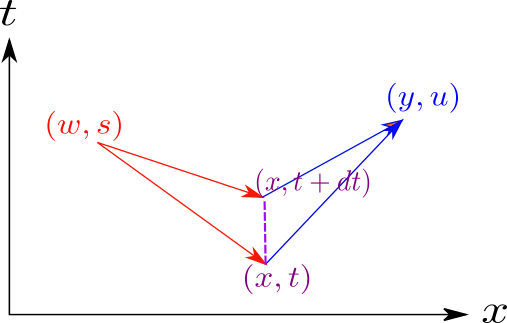
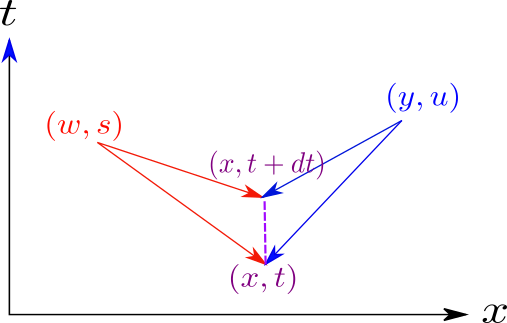
added chapters on ising-dbnet and renormalization group

diff --git a/stochastic-diff-eqns/stochastic-diff-eqns.tex b/stochastic-diff-eqns/stochastic-diff-eqns.tex
@@ -368,7 +368,8 @@ E[\;|\rvy(t_i)|\;] < \infty\quad \forall i\quad
 a finite closed time interval, 
 it's called a \qt{local} martingale)
 
-\item Causal
+\item Causal and only remembers
+last past observation
 \beq
 E\left[\rvy(t)|x(t_{i\ldots j})\right]= y(t_j)
 \quad (\text{resp., }E\left[\rvy(t)|x([0,s])\right]= y(s))
@@ -381,9 +382,9 @@ E[\rvB(t)| B(t_{i\ldots j}] = B(t_j)
 \eeq
 
 
-It\^{o} integrals $\int L\XT{x}{t}d\rvB_t$ (discussed later)
+It\^{o} integrals $\int L(\XT{x}{t})d\rvB_t$ (discussed later)
 are martingales too, but Stratonovich integrals
-$\int L\XT{x}{t}\circ d\rvB_t$
+$\int L(\XT{x}{t})\circ d\rvB_t$
 (discussed later)
 aren't.
 
@@ -408,7 +409,7 @@ the white noise $\dot{\rvB}_t$, requires
 some care and will be given later.
 For now, just note that
 a semi-martingale's time derivative is the 
-sum of a smooth function and a zig-zaggy function.
+sum of a smooth function ({\bf drift term}) and a zig-zaggy function ({\bf diffusion term, a martingale if $\alp=0$}).
 
 An alternative differential expression for this SDE is
 
@@ -1467,17 +1468,13 @@ with
 \beq
 \calf_\rvx \bullet=
 -\;\pder{}{x_\mu}
-(\bullet f_\mu) +
-\frac{\partial^2}{ \partial x_\mu\partial x_\nu}(\bullet R_{\mu, \nu})
+(f_\mu\bullet ) +
+\frac{\partial^2}{ \partial x_\mu\partial x_\nu}( R_{\mu, \nu}\bullet)
 \eeq
 \end{claim}
 \proof
 
-%\beq
-%\int dx^n\; P\XT{x}{t}\left[ \pder{\phi}{x_\mu}L_{\mu,\nu}d\rvB_\nu
-%\right]
-%=0
-%\eeq
+
 
 Integration by parts
 
@@ -1496,8 +1493,8 @@ udv = d(uv)-(du)v
 
 
 \beq
-dt\int dx^n\; P\XT{x}{t}\frac{d\phi}{dt}=
-dt\int dx^n\; P\XT{x}{t}
+\int dt\int dx^n\; P(\XT{x}{t})\frac{d\phi}{dt}=
+\int dt\int dx^n\; P(\XT{x}{t})
 \left[\pder{\phi}{t} +
  f_\mu\pder{\phi}{x_\mu} + R_{\mu, \nu}
 \frac{\partial^2\phi}{\partial x_\mu\partial x_\nu}\right]
@@ -1506,7 +1503,8 @@ dt\int dx^n\; P\XT{x}{t}
 
 
 \beq
--dt\int dx^n\; \phi\frac{dP}{dt}=
+-\int dt\int dx^n\; \phi\frac{dP}{dt}=
+\int
 dt\int dx^n\;  \phi
 \left[-\;\pder{P}{t} -
 \pder{(Pf_\mu)}{x_\mu} +
@@ -1620,13 +1618,18 @@ Recall that
 \beq
 \calf_\rvx \bullet=
 -\;\pder{}{x_\mu}
-(\bullet f_\mu) +
-\frac{\partial^2}{ \partial x_\nu\partial x_\mu}(\bullet R_{\mu, \nu})
+( f_\mu\bullet) +
+\frac{\partial^2}{ \partial x_\nu\partial x_\mu}( R_{\mu, \nu}\bullet)
 \eeq
 
 Define $\calb_\rvx$ to be the same as $\calf_\rvx$
-but with every derivative $A\pder{B}{x_\mu}$
-replaced by $-B\pder{A}{x_\mu}$. Hence
+but with every derivative $\partial_t$
+or $\partial_{x_i}$
+replaced by its negative
+and the order
+of the operators
+acting on $\bullet$ is
+reversed. Hence
 
 \beq
 \calb_\rvx \bullet=
@@ -1753,6 +1756,90 @@ for the backwards FP equation.
 \end{figure}
 
 
+\section{FP Equations in Dirac Notation}
+
+When expressed in succinct
+Dirac notation,
+the derivation  of the forward and
+backward FP equations
+becomes very clear.
+
+Begin by expressing a PDE in Dirac notation
+\beq
+\partial_t \phi(\XT{x}{t})= \Omega_{x,t}\phi(\XT{x}{t})
+\to \quad 
+\partial_t \av{\XT{x}{t}|\phi}= \Omega_{x,t}\av{\XT{x}{t}|\phi}
+\to\quad
+\av{\XT{x}{t}|\partial_\rvt|\phi}
+\av{\XT{x}{t}|\Omega_{\rvx,\rvt}|\phi}
+\eeq
+and an expectation value in Dirac notation
+
+\beq
+E_{\rvx, \rvt}[\phi(\XT{\rvx}{\rvt})]=
+\int dx \int dt\;P(\XT{x}{t})\phi(\XT{x}{t})
+\to \quad
+E_{\rvx, \rvt}[\phi(\XT{\rvx}{\rvt})]=\av{P|\phi}
+\eeq
+Hence
+
+\beq
+\av{P|\partial_\rvt |\phi}=
+\av{P|\Omega_{\rvx,\rvt}|\phi}
+\eeq
+Now taking the Hermitian
+conjugate of both sides,
+
+\beq
+-\av{\phi|\partial_\rvt |P}=
+\av{\phi|\Omega^\dagger_{\rvx,\rvt}|P}
+\eeq
+Setting $\bra{\phi}=\bra{\XT{x}{t}}$ we get
+\beq
+-\av{\XT{x}{t}|\partial_\rvt |P}=
+\av{\XT{x}{t}|\Omega^\dagger_{\rvx,\rvt}|P}
+\eeq
+Pulling the operators out 
+of the bra-ket sandwich
+
+\beq
+-\partial_t\av{\XT{x}{t}| P}=
+\Omega^\dagger_{x,t}\av{\XT{x}{t}|P}
+\eeq
+so
+\beq
+\partial_t\av{\XT{x}{t}| P}=
+\calf_{x,t}\av{\XT{x}{t}|P},\quad
+\calf_{x,t}=-\Omega^\dagger_{x,t}
+\eeq
+If we make $P$ a conditional
+probability, then
+for the forward evolution, we get
+
+\beq
+\partial_t
+\underbrace{\av{\XT{x}{t}| P|\XT{w}{s}}}_
+{P(\XT{x}{t}|\XT{w}{s})}=
+\calf_{x,t}\av{\XT{x}{t}|P|\XT{w}{s}},\quad
+\calf_{x,t}=-\Omega^\dagger_{x,t}
+\eeq
+and for the backwards evolution we get
+
+\beq
+\partial_t
+\underbrace{\av{\XT{y}{u}| P|\XT{x}{t}}}_{
+P(\XT{y}{u}|\XT{x}{t})}=
+\calb_{x,t}\av{\XT{y}{u}|P|\XT{x}{t}},\quad
+\calb_{x,t}=-\Omega_{x,t}
+\eeq
+
+Note that the
+$P(\XT{x}{t}|\XT{w}{s})$ in the
+forward FP equation is a probability density 
+in $(x,t)$,
+but the $P(\XT{y}{u}|\XT{x}{t})$
+in the backwards FP is NOT
+a probability density in $(x,t)$.
 
 
 
@@ -2298,13 +2385,13 @@ is given by
 \beq
 g(y,t)=
 \left.\left(
-\frac{f\XT{x}{t}}{L\XT{x}{t}}
+\frac{f(\XT{x}{t})}{L(\XT{x}{t})}
 +
 \pder{}{t}
-\int_\xi^x \frac{du}{L\XT{u}{t}}
+\int_\xi^x \frac{du}{L(\XT{u}{t})}
 -\;
 \frac{1}{2}
-\pder{L\XT{x}{t}}{x}
+\pder{L(\XT{x}{t})}{x}
 \right)\right|_{x\rarrow h^{-1}(y,t)}
 \eeq
 \end{claim}
@@ -3020,7 +3107,7 @@ In this section, we explain {\bf Doob's transform}.
 
 We begin by assuming that a function
 $D(.|\XT{x}{t})$ \footnote{Sometimes, $D(.|\XT{x}{t})$ is denoted by the letter $h$, and this transform is called Doob's h-transform.}
-\footnote{Later on, we will see that the conditional probability
+\footnote{According to the Chapman Kolgomorov equation, the conditional probability
 $P(\XT{x}{T}|\XT{x}{t})=D(.|\XT{x}{t})$
 satisfies Eq.(\ref{eq-dooby}).}
 satisfies the equation
@@ -3071,7 +3158,7 @@ If
 \beq
 \left[\pder{}{s} + \calb_\rvy\right] \phi\XT{y}{s}=0,
 \eeq
-then that implies we can define a process $y(s)$
+then we can define a process $y(s)$
 such that
 
 \beq
@@ -3118,6 +3205,7 @@ P^D(\XT{y}{t+s}|\XT{x}{t})
 	
 \end{claim}
 \proof
+
 For conciseness, define
 $P_s=P(\XT{y}{t+s}|\XT{x}{t})$, $D_s=D(.|\XT{y}{t+s})$, $D_0=D(.|y_{t})$
 , and
@@ -3271,7 +3359,7 @@ D(.|\XT{x}{t+s})= P(\XT{x}{T}|\XT{x}{t+s})
 \eeq
 then Claim \ref{cl-doobs-transform} applies.
 
-\section{Appendix: Some explicitly solvable examples}
+\section{Appendix: Some explicitly solvable SDE examples}
 Let $\mu, \nu, \alpha, \beta\in [n]$
 \beq
 d\rvx_\mu= f_\mu(\rvx, t)dt + L_{\mu, \nu}(\rvx, t)d\rvB_\nu(t)
@@ -3305,7 +3393,7 @@ dx_\mu = -\;\frac{1}{2}\pder{U}{x_\mu}dt + d\rvB_\mu
 
 \item {\bf Ornstein–Uhlenbeck process (a.k.a. Langevin equation)} ($f_\mu=-\lam x_\mu$, $R_{\mu,\nu}=D\delta(\mu, \nu)$)
 
-This is the same as the Langevin equation, if identify $\rvx$ with
+This is the same as the Langevin equation, if we identify $\rvx$ with
 the velocity of the
 particle and $\lam$ with the drag coefficient.
 

diff --git a/main.tex b/main.tex
@@ -171,7 +171,7 @@
 
 %\includeonly{renorm-group-bnets/renorm-group-bnets}
 
-%\includeonly{stochastic-diff-eqns/stochastic-diff-eqns}
+\includeonly{stochastic-diff-eqns/stochastic-diff-eqns}
 
 
 \title{\textbf{Bayesuvius},

diff --git a/tempo.tex b/tempo.tex
@@ -5,5 +5,4 @@
 
 
 
-
 \end{document}